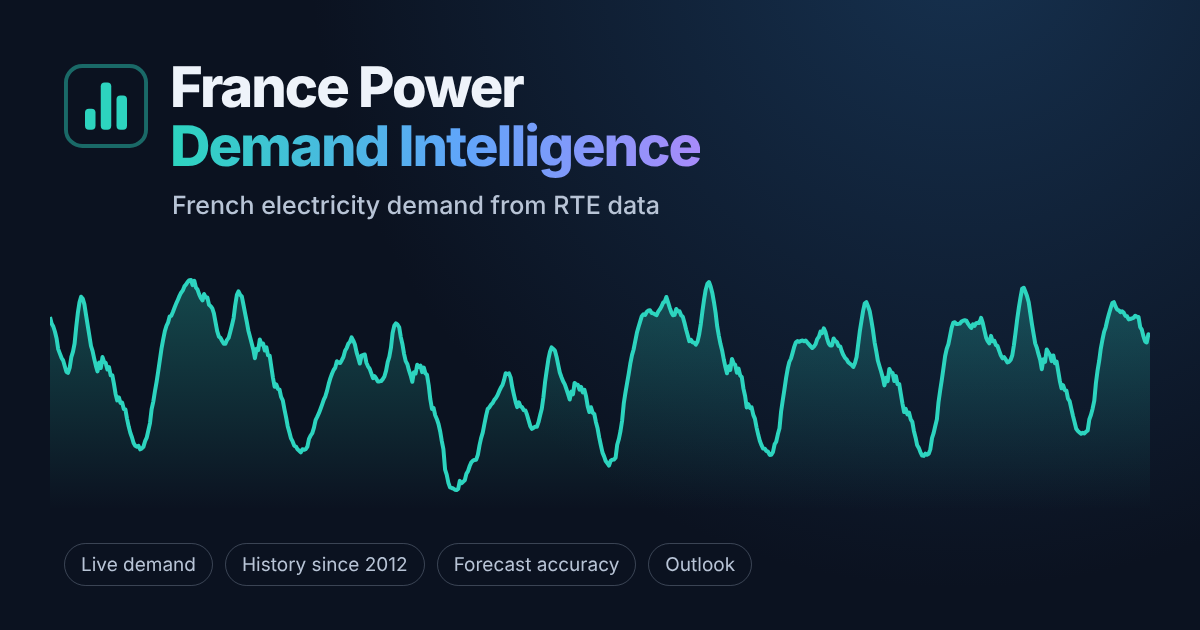
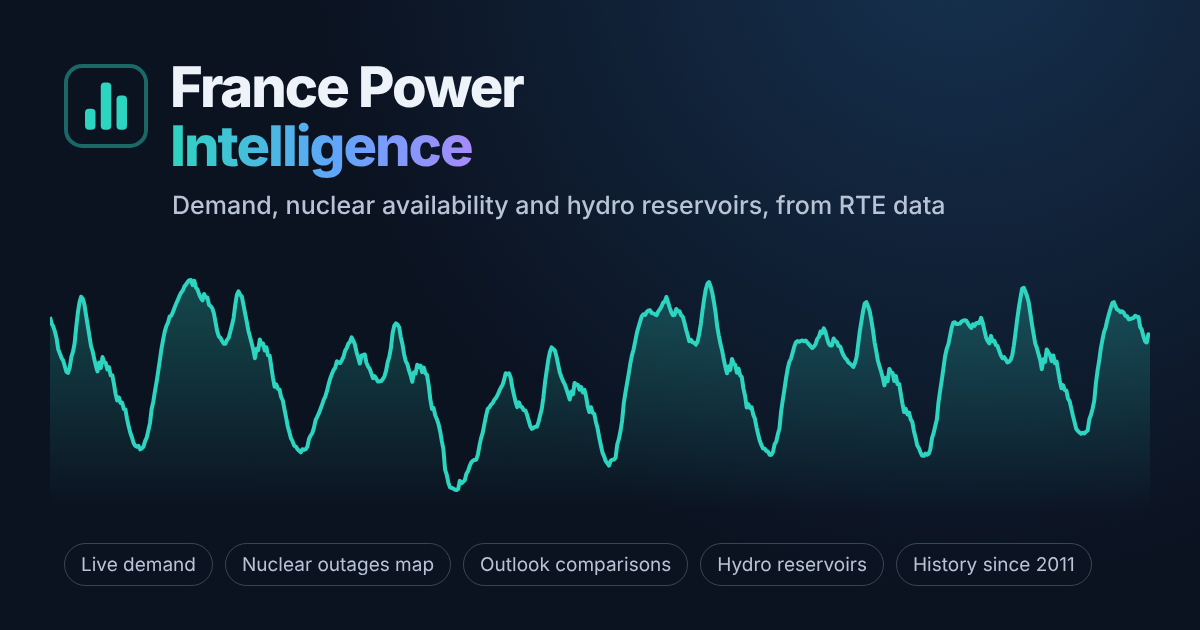
Outage filters (status, offline for, show all) and new link preview image
Claude-Session: https://claude.ai/code/session_01LFRoov7GZn7YE9nNJP9GLc

Changed region(s): [[0.1542, 0.181, 0.8017, 0.3619], [0.185, 0.8746, 0.8942, 0.9349]]

diff --git a/js/nuclear-outages.js b/js/nuclear-outages.js
@@ -11,7 +11,7 @@ import { getFleet, getOutages } from "./power-data.js";
 const DURATIONS = { 0: "Any length", 1: "1 day or more", 7: "1 week or more", 30: "1 month or more" };
 
 function defaults() {
-  return { win: "now", from: "", to: "", type: "all", dur: "1", size: "major", site: "all", unit: "", q: "", sort: "start", dir: "asc" };
+  return { win: "now", from: "", to: "", type: "all", dur: "1", size: "major", state: "all", running: "0", site: "all", unit: "", q: "", sort: "start", dir: "asc" };
 }
 
 export class NuclearOutages {
@@ -48,8 +48,19 @@ export class NuclearOutages {
           <label class="field"><span>Type</span><select data-k="type"><option value="all">Planned and unplanned</option><option value="planned">Planned</option><option value="unplanned">Unplanned</option></select></label>
           <label class="field"><span>Length</span><select data-k="dur">${Object.entries(DURATIONS).map(([k, v]) => `<option value="${k}">${v}</option>`).join("")}</select></label>
           <label class="field"><span>Size</span><select data-k="size"><option value="major">Half the reactor or more</option><option value="all">Any size</option></select></label>
+          <label class="field"><span>Status</span>
+            <select data-k="state"><option value="all">Any</option><option value="ongoing">Ongoing now</option><option value="upcoming">Not started yet</option>
+              <option value="ended">Ended</option><option value="overran">Ran past first announced end</option><option value="early">Ended early</option></select>
+          </label>
+          <label class="field"><span>Offline for</span>
+            <select data-k="running"><option value="0">Any time so far</option><option value="7">Over a week so far</option><option value="30">Over a month so far</option>
+              <option value="91">Over 3 months so far</option><option value="182">Over 6 months so far</option></select>
+          </label>
           <label class="field"><span>Site</span><select data-k="site" data-sites><option value="all">All sites</option></select></label>
           <label class="field grow"><span>Search</span><input type="search" data-k="q" placeholder="Reactor, reason or remark"></label>
+          <div class="field"><span>Quick</span><div class="chips">
+            <button class="chip" type="button" data-all-outages style="color:var(--accent)"><span class="swatch"></span><span class="chip-label">Show all outages</span></button>
+          </div></div>
         </div>
       </div>
       <div class="filter-note" data-unit-note hidden></div>
@@ -69,6 +80,12 @@ export class NuclearOutages {
     this.gantt = new ChartPanel(this.root.querySelector("[data-gantt]"), { title: "Outage timeline", size: "gantt" });
     this.root.querySelector("[data-copy]").addEventListener("click", () => copyText(this.headline.textContent));
     this.root.querySelector("[data-csv]").addEventListener("click", () => this.exportCsv());
+    this.root.querySelector("[data-all-outages]").addEventListener("click", () => {
+      const all = this.isAll();
+      Object.assign(this.state, all ? { dur: "1", size: "major" } : { dur: "0", size: "all", type: "all", state: "all", running: "0", q: "" });
+      this.syncControls();
+      this.update();
+    });
     this.root.querySelectorAll("[data-k]").forEach(input => input.addEventListener(input.type === "search" ? "input" : "change", () => {
       this.state[input.dataset.k] = input.value;
       if (input.dataset.k === "from" || input.dataset.k === "to") this.state.win = "custom";
@@ -99,12 +116,18 @@ export class NuclearOutages {
       this.root.querySelector('[data-k="from"]').value = from;
       this.root.querySelector('[data-k="to"]').value = to;
     }
+    this.root.querySelector("[data-all-outages]").setAttribute("aria-pressed", this.isAll());
     const note = this.root.querySelector("[data-unit-note]");
     note.hidden = !s.unit;
     if (s.unit) {
       note.innerHTML = `Showing <b>${this.labelOf(s.unit)}</b> only. <button class="link" type="button" data-clear>Show all reactors</button>`;
       note.querySelector("[data-clear]").addEventListener("click", () => { this.state.unit = ""; this.syncControls(); this.update(); });
     }
+  }
+
+  isAll() {
+    const s = this.state;
+    return s.dur === "0" && s.size === "all" && s.type === "all" && s.state === "all" && s.running === "0" && !s.q;
   }
 
   labelOf(name) {
@@ -168,6 +191,13 @@ export class NuclearOutages {
       if (o.end - o.start < Number(s.dur) * DAY) return false;
       if (s.size === "major" && o.offMw < 0.5 * o.capMw) return false;
       if (s.unit && o.unit !== s.unit) return false;
+      const now = Date.now();
+      if (s.state === "ongoing" && !(o.start <= now && o.end > now)) return false;
+      if (s.state === "upcoming" && !(o.start > now)) return false;
+      if (s.state === "ended" && !(o.end <= now)) return false;
+      if (s.state === "overran" && !(o.end - o.firstEnd > HOUR && o.firstEnd < now)) return false;
+      if (s.state === "early" && !(o.end <= now && o.firstEnd - o.end > HOUR)) return false;
+      if (Number(s.running) > 0 && !(o.start <= now && o.end > now && now - o.start >= Number(s.running) * DAY)) return false;
       if (s.site !== "all" && site(o.unit) !== s.site) return false;
       if (q && !`${this.labelOf(o.unit)} ${o.unit} ${reasonLabel(o.reason, o.remark)} ${o.remark} ${o.type}`.toLowerCase().includes(q)) return false;
       return true;

diff --git a/js/changelog.js b/js/changelog.js
@@ -29,7 +29,7 @@ export const CHANGELOG = [
         heading: "Nuclear availability: Explorer, Outages, Outlook",
         items: [
           "Explorer: available or unavailable capacity (split into planned and unplanned), availability rate, output, load factor or reactors offline for any period since 2011, hourly to monthly, for the whole fleet or one site or reactor series. Compare with last year, the average and range of up to 10 earlier years, run the period into the months ahead using the current notices, and rank it against every year.",
-          "Outages: every outage as a timeline per reactor and a sortable table, filtered by window, type, length, size, site or text. The red part of each bar shows an overrun beyond the end date first announced; the headline gives the share of planned outages that overran and by how much on average.",
+          "Outages: every outage as a timeline per reactor and a sortable table, filtered by window, type, length, size, status (ongoing, not started, ended, overran, ended early), how long a reactor has been offline so far, site or text, with a one-click "Show all outages" switch. The red part of each bar shows an overrun beyond the end date first announced; the headline gives the share of planned outages that overran and by how much on average.",
           "Outlook: expected availability for any period up to 18 months ahead, compared with the outlook a week or a month earlier, on the same date in up to three earlier years, or as of any date you pick — e.g. November as seen today against November 2025 as seen on the same date last year — and with what actually happened. A second chart shows how the outlook for the period has moved, and a third compares the outlook and the outcome at the same lead time in every year."
         ]
       },
@@ -42,7 +42,7 @@ export const CHANGELOG = [
       {
         heading: "Data",
         items: [
-          "Every version of every nuclear outage notice since December 2010, nuclear output since December 2014 and reservoir levels since December 2014 are now stored and updated with the demand data. Image exports name the page they come from."
+          "Every version of every nuclear outage notice since December 2010, nuclear output since December 2014 and reservoir levels since December 2014 are now stored and updated with the demand data. Image exports name the page they come from, and the preview image for shared links is updated."
         ]
       }
     ]
